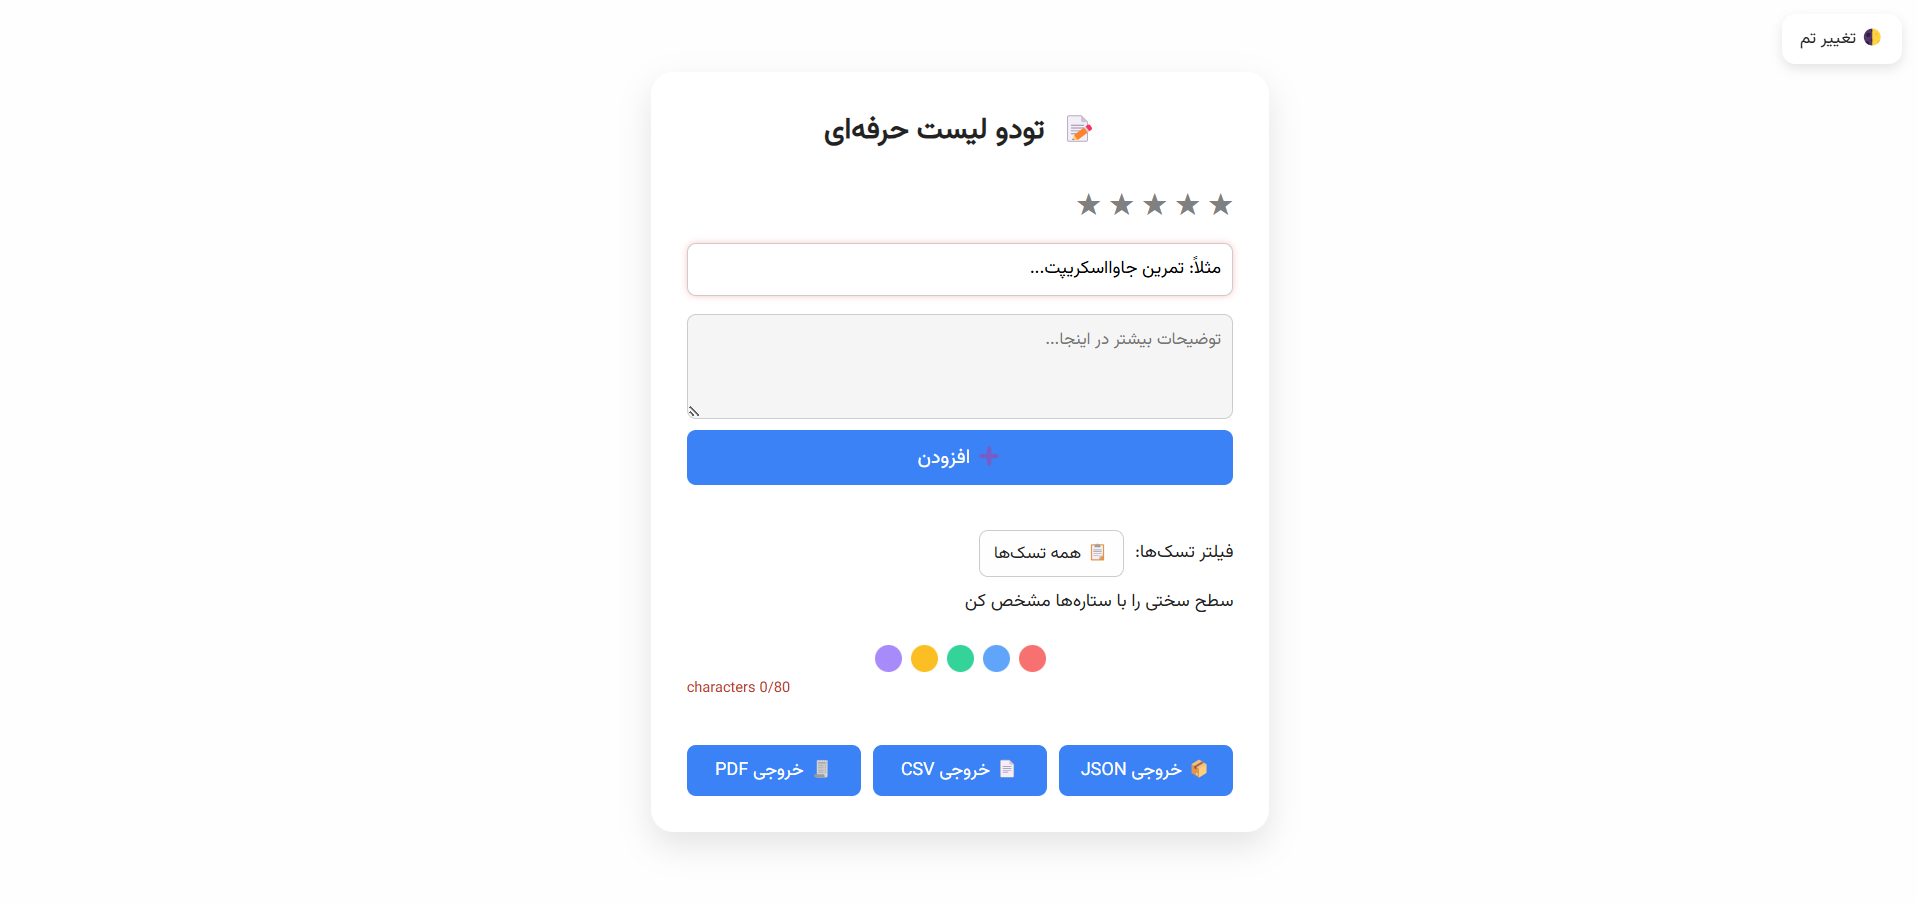
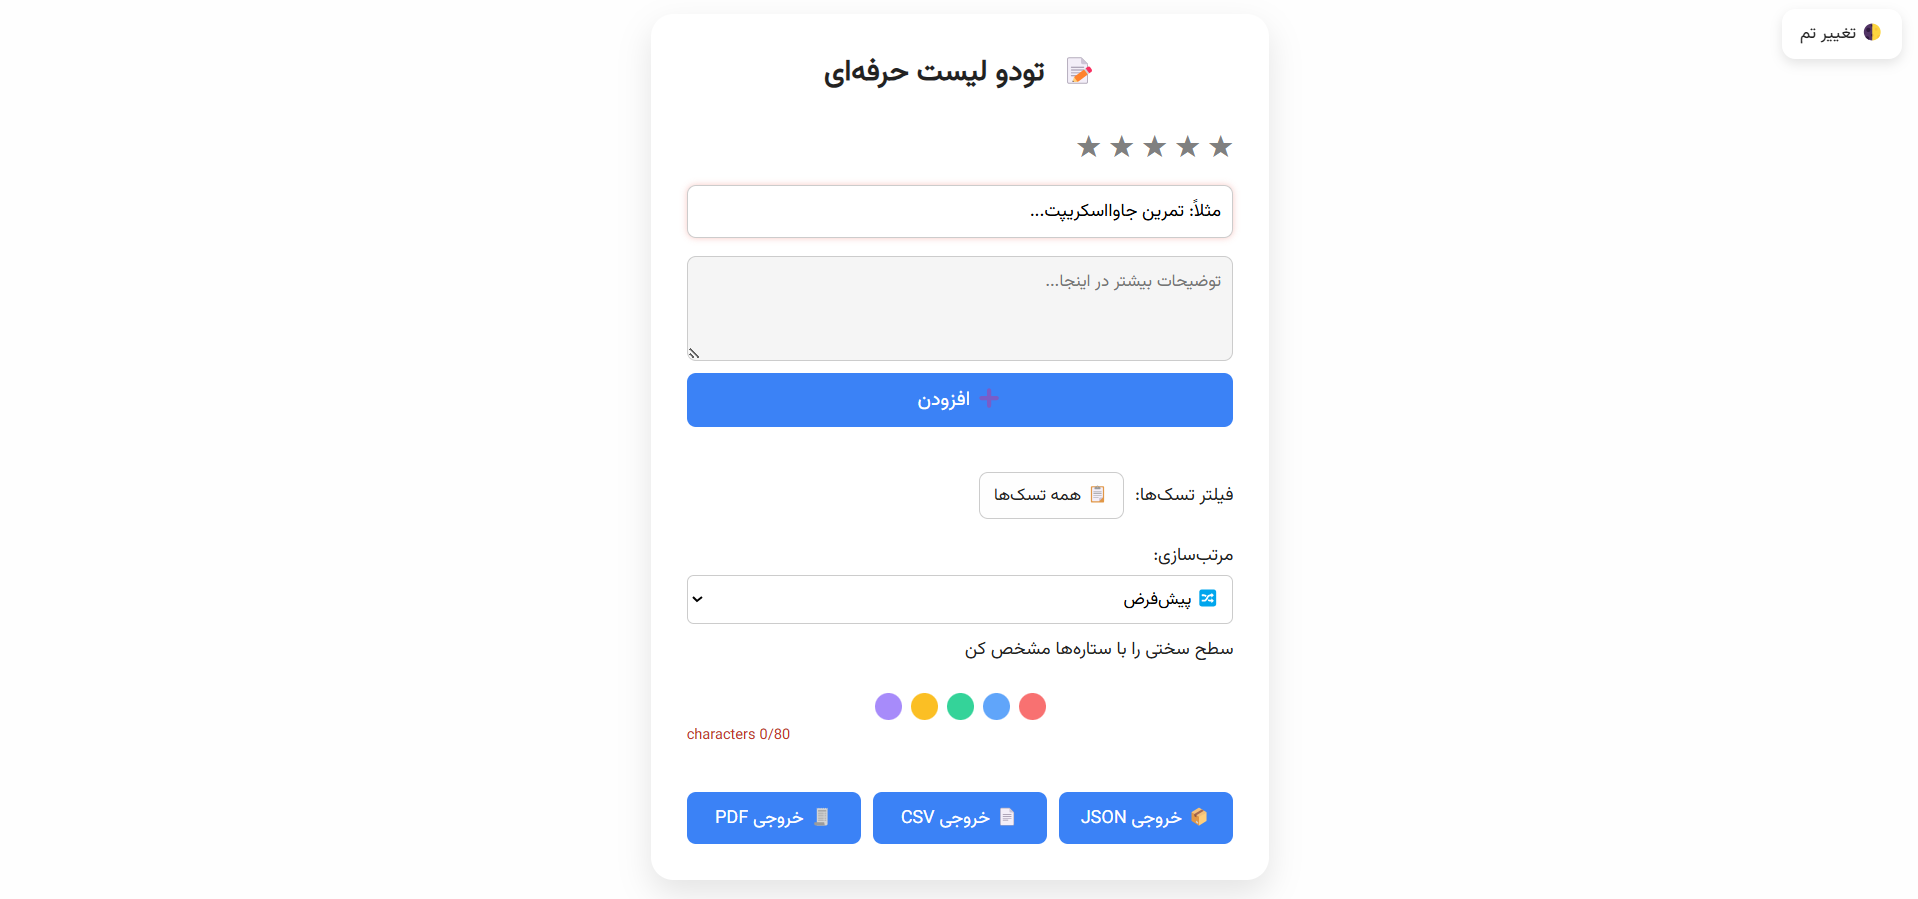
Add sorting feature and improve HTML structure

diff --git a/pages/index.html b/pages/index.html
@@ -5,13 +5,15 @@
   <meta charset="UTF-8" />
   <meta name="viewport" content="width=device-width, initial-scale=1.0" />
   <title>تودو لیست حرفهای</title>
+
+  <link href="https://fonts.googleapis.com/css2?family=Vazirmatn&display=swap" rel="stylesheet" />
+
   <link rel="stylesheet" href="../styles/variables.css" />
   <link rel="stylesheet" href="../styles/base.css" />
   <link rel="stylesheet" href="../styles/layout.css" />
   <link rel="stylesheet" href="../styles/components.css" />
   <link rel="stylesheet" href="../styles/themes.css" />
   <link rel="stylesheet" href="../styles/responsive.css" />
-  <link href="https://fonts.googleapis.com/css2?family=Vazirmatn&display=swap" rel="stylesheet">
 </head>
 
 <body>
@@ -25,42 +27,53 @@
   <div class="container">
     <h1><span class="icon">📝</span> تودو لیست حرفهای</h1>
 
+    <!-- فرم افزودن تسک -->
     <div class="form-wrapper">
+      <form id="todo-form" class="todo-form">
 
-      <div id="difficulty-stars">
-        <span class="star selected">★</span>
-        <span class="star selected">★</span>
-        <span class="star selected">★</span>
-        <span class="star">★</span>
-        <span class="star">★</span>
-      </div>
+        <!-- سطح سختی -->
+        <div id="difficulty-stars" class="difficulty-stars">
+          <span class="star selected">★</span>
+          <span class="star selected">★</span>
+          <span class="star selected">★</span>
+          <span class="star">★</span>
+          <span class="star">★</span>
+        </div>
 
-      <form id="todo-form" style="display: flex; flex-direction: column; gap: 10px;">
-        <input type="text" id="todo-input" placeholder="مثلاً: تمرین جاوااسکریپت..." maxlength="80"
-          style="padding: 10px; font-size: 1rem; border-radius: 8px; border: 1px solid #ccc;" />
+        <!-- عنوان تسک -->
+        <input type="text" id="todo-input" class="todo-input" placeholder="مثلاً: تمرین جاوااسکریپت..."
+          maxlength="80" />
 
-        <textarea id="todo-description" placeholder="توضیحات بیشتر در اینجا..." rows="3" maxlength="200"
-          style="padding: 10px; font-size: 0.95rem; border-radius: 8px; border: 1px solid #ccc; resize: vertical;"></textarea>
+        <!-- توضیحات تسک -->
+        <textarea id="todo-description" class="todo-description" placeholder="توضیحات بیشتر در اینجا..." rows="3"
+          maxlength="200"></textarea>
 
-        <button type="submit" class="btn"
-          style="padding: 10px; font-size: 1.1rem; border-radius: 8px; border: none; background-color: #3b82f6; color: white; cursor: pointer;">
-          ➕ افزودن
-        </button>
+        <!-- دکمه افزودن -->
+        <button type="submit" class="btn add-btn">➕ افزودن</button>
       </form>
 
-
+      <!-- فیلترها -->
       <div class="filter-wrapper">
         <label for="filter-select" class="filter-label">فیلتر تسکها:</label>
-        <div class="filter-select-container">
-          <select id="filter-select" class="filter-select">
-            <option value="all">📋 همه تسکها</option>
-            <option value="completed">✅ انجامشده</option>
-            <option value="active">🕓 در حال انجام</option>
-            <option value="deleted">🗑 حذفشده</option>
-          </select>
-        </div>
+        <select id="filter-select" class="filter-select">
+          <option value="all">📋 همه تسکها</option>
+          <option value="completed">✅ انجامشده</option>
+          <option value="active">🕓 در حال انجام</option>
+          <option value="deleted">🗑 حذفشده</option>
+        </select>
       </div>
 
+      <!-- مرتبسازی -->
+      <div class="sort-wrapper">
+        <label for="sort-select" class="sort-label">مرتبسازی:</label>
+        <select id="sort-select" class="sort-select">
+          <option value="none">🔀 پیشفرض</option>
+          <option value="difficulty-asc">⬆ سختی (صعودی)</option>
+          <option value="difficulty-desc">⬇ سختی (نزولی)</option>
+        </select>
+      </div>
+
+      <!-- رنگها -->
       <div class="star-label">سطح سختی را با ستارهها مشخص کن</div>
       <div class="color-picker">
         <span class="color-option" data-color="#f87171" style="background-color: #f87171;"></span>
@@ -71,24 +84,25 @@
       </div>
     </div>
 
+    <!-- پیام خطا و شمارنده کاراکتر -->
     <div id="error-box" class="error-box">⚠ خطا</div>
     <div class="char-count" id="char-count">۰/۸۰ کاراکتر</div>
 
-    <ul id="todo-list">
-    </ul>
+    <!-- لیست تسکها -->
+    <ul id="todo-list"></ul>
 
-    <div class="export-buttons" style="display: flex; gap: 10px; margin-top: 20px;">
+    <!-- دکمههای خروجی -->
+    <div class="export-buttons">
       <button id="export-json" class="btn">📦 خروجی JSON</button>
       <button id="export-csv" class="btn">📄 خروجی CSV</button>
       <button id="export-pdf" class="btn">🧾 خروجی PDF</button>
     </div>
-
-
   </div>
 
-  <script src="https://cdnjs.cloudflare.com/ajax/libs/jspdf/2.5.1/jspdf.umd.min.js"></script>
-  <script type="module" src="../scripts/main.js"></script>
 
+  <script src="https://cdnjs.cloudflare.com/ajax/libs/jspdf/2.5.1/jspdf.umd.min.js"></script>
+
+  <script type="module" src="../scripts/main.js"></script>
 
 </body>
 

diff --git a/scripts/main.js b/scripts/main.js
@@ -16,6 +16,7 @@ const stars = starsContainer.querySelectorAll(".star");
 const colorOptions = $.querySelectorAll(".color-option");
 const filterSelect = $.getElementById("filter-select");
 const descriptionInput = $.getElementById("todo-description");
+const sortSelect = document.getElementById("sort-select");
 
 // ==== State ====
 let selectedDifficulty = 0;
@@ -33,16 +34,31 @@ colorOptions.forEach(option => {
 // ==== Filtering ====
 function filterTodos(type) {
   currentFilter = type;
+  let filtered = [];
 
-  const filtered = todos.filter(todo => {
-    if (type === "completed") return todo.completed && !todo.deleted;
-    if (type === "active") return !todo.completed && !todo.deleted;
-    if (type === "deleted") return todo.deleted;
-    return !todo.deleted;
-  });
+  if (type === "completed") {
+    filtered = todos.filter(todo => todo.completed && !todo.deleted);
+  } else if (type === "active") {
+    filtered = todos.filter(todo => !todo.completed && !todo.deleted);
+  } else if (type === "deleted") {
+    filtered = todos.filter(todo => todo.deleted);
+  } else {
+    filtered = todos.filter(todo => !todo.deleted);
+  }
+
+  const sortType = sortSelect.value;
+  if (sortType === "difficulty-asc") {
+    filtered.sort((a, b) => a.difficulty - b.difficulty);
+  } else if (sortType === "difficulty-desc") {
+    filtered.sort((a, b) => b.difficulty - a.difficulty);
+  }
 
   renderTodos(filtered);
 }
+
+sortSelect.addEventListener("change", () => {
+  filterTodos(currentFilter); // اعمال مجدد فیلتر با ترتیب جدید
+});
 
 filterSelect.addEventListener("change", () => {
   filterTodos(filterSelect.value);

diff --git a/styles/components.css b/styles/components.css
@@ -71,9 +71,6 @@ body.dark #todo-description {
 }
 
 
-
-
-
 button {
     padding: 14px 22px;
     background-color: #3498db;
@@ -277,6 +274,27 @@ body.dark .filter-select {
 body.dark .filter-label {
     color: #ccc;
 }
+
+.sort-wrapper {
+  margin-top: 10px;
+  display: flex;
+  flex-direction: column;
+  gap: 5px;
+}
+
+.sort-select {
+  padding: 8px;
+  border-radius: 6px;
+  font-size: 0.95rem;
+  border: 1px solid #ccc;
+}
+
+.dark .sort-select {
+  background-color: #1f2937;
+  color: #fff;
+  border-color: #4b5563;
+}
+
 
 /* === Todo Item States === */
 .completed {
